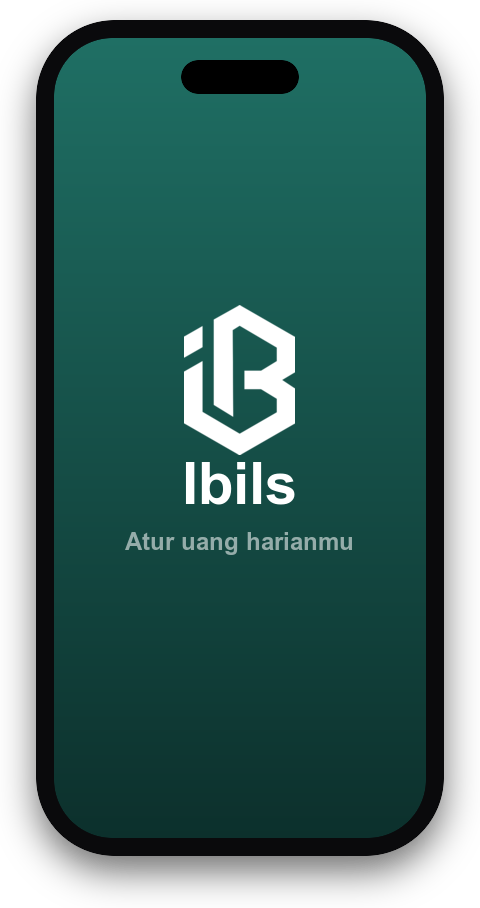
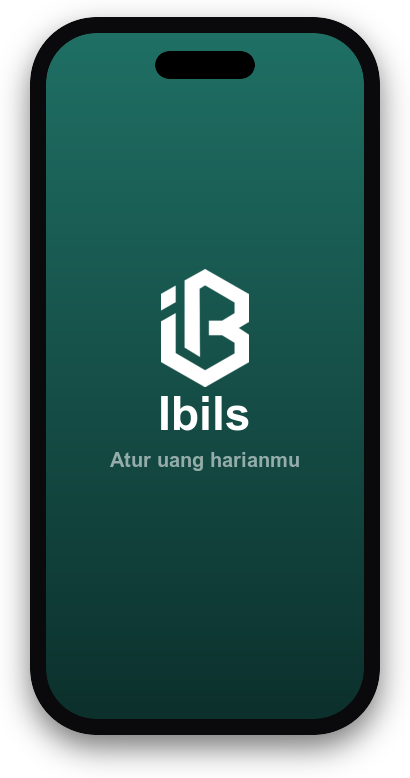
fix: closing brief is headline-only — drop SUBTEXT (badges already say it)

diff --git a/scripts/gen-carousel.js b/scripts/gen-carousel.js
@@ -165,14 +165,14 @@ function buildPrompt(slide, plan, total) {
   if (slide.kind === "closing") {
     lines.push(
       "CLOSING SLIDE — render it in the SAME category visual style as the other",
-      "slides (this carousel's style). Draw ONLY: a short closing headline near",
-      "the TOP, and Himel in his pose on the LEFT side. Fill the rest with the",
-      "category's plain styled background.",
+      "slides (this carousel's style). Draw ONLY: a short closing headline kept",
+      "entirely within the TOP ~230px band, and Himel in his pose at the BOTTOM-",
+      "LEFT. Fill the rest with the category's plain styled background.",
       "DO NOT draw a phone, a phone mockup, a logo, the iB mark, the word",
-      "'Ibils', or any store badge. Leave the CENTRE-RIGHT area and the BOTTOM",
-      "~190px as plain empty background — a phone mockup and the download badges",
-      "are composited there afterwards. If you draw a phone or logo, the slide",
-      "is rejected."
+      "'Ibils', or any store badge. The centre / centre-right and the bottom",
+      "~190px MUST stay plain empty background — a phone mockup and the download",
+      "badges are composited there afterwards. If you draw a phone or logo, or",
+      "let the headline run below the top band, the slide is rejected."
     );
   }
   lines.push(

diff --git a/scripts/finalize.js b/scripts/finalize.js
@@ -74,7 +74,7 @@ async function main() {
       if (name.includes("closing")) {
         await execFileP("magick", [
           file, CLOSING_PHONE,
-          "-gravity", "center", "-geometry", "+165-30", "-composite",
+          "-gravity", "center", "-geometry", "+150+70", "-composite",
           file
         ]);
         await execFileP("magick", [

diff --git a/references/content-rules.md b/references/content-rules.md
@@ -129,7 +129,7 @@ The content plan codex writes (before image generation) is JSON:
   "slides": [
     { "kind": "cover",   "brief": "HEADLINE: \"...\"", "pose": "..." },
     { "kind": "content", "brief": "LAYOUT: statement. HEADLINE: \"...\". BODY: \"...\"", "pose": "..." },
-    { "kind": "closing", "brief": "HEADLINE: \"...\". SUBTEXT: \"...\"", "pose": "..." }
+    { "kind": "closing", "brief": "HEADLINE: \"...\"", "pose": "..." }
   ]
 }
 ```